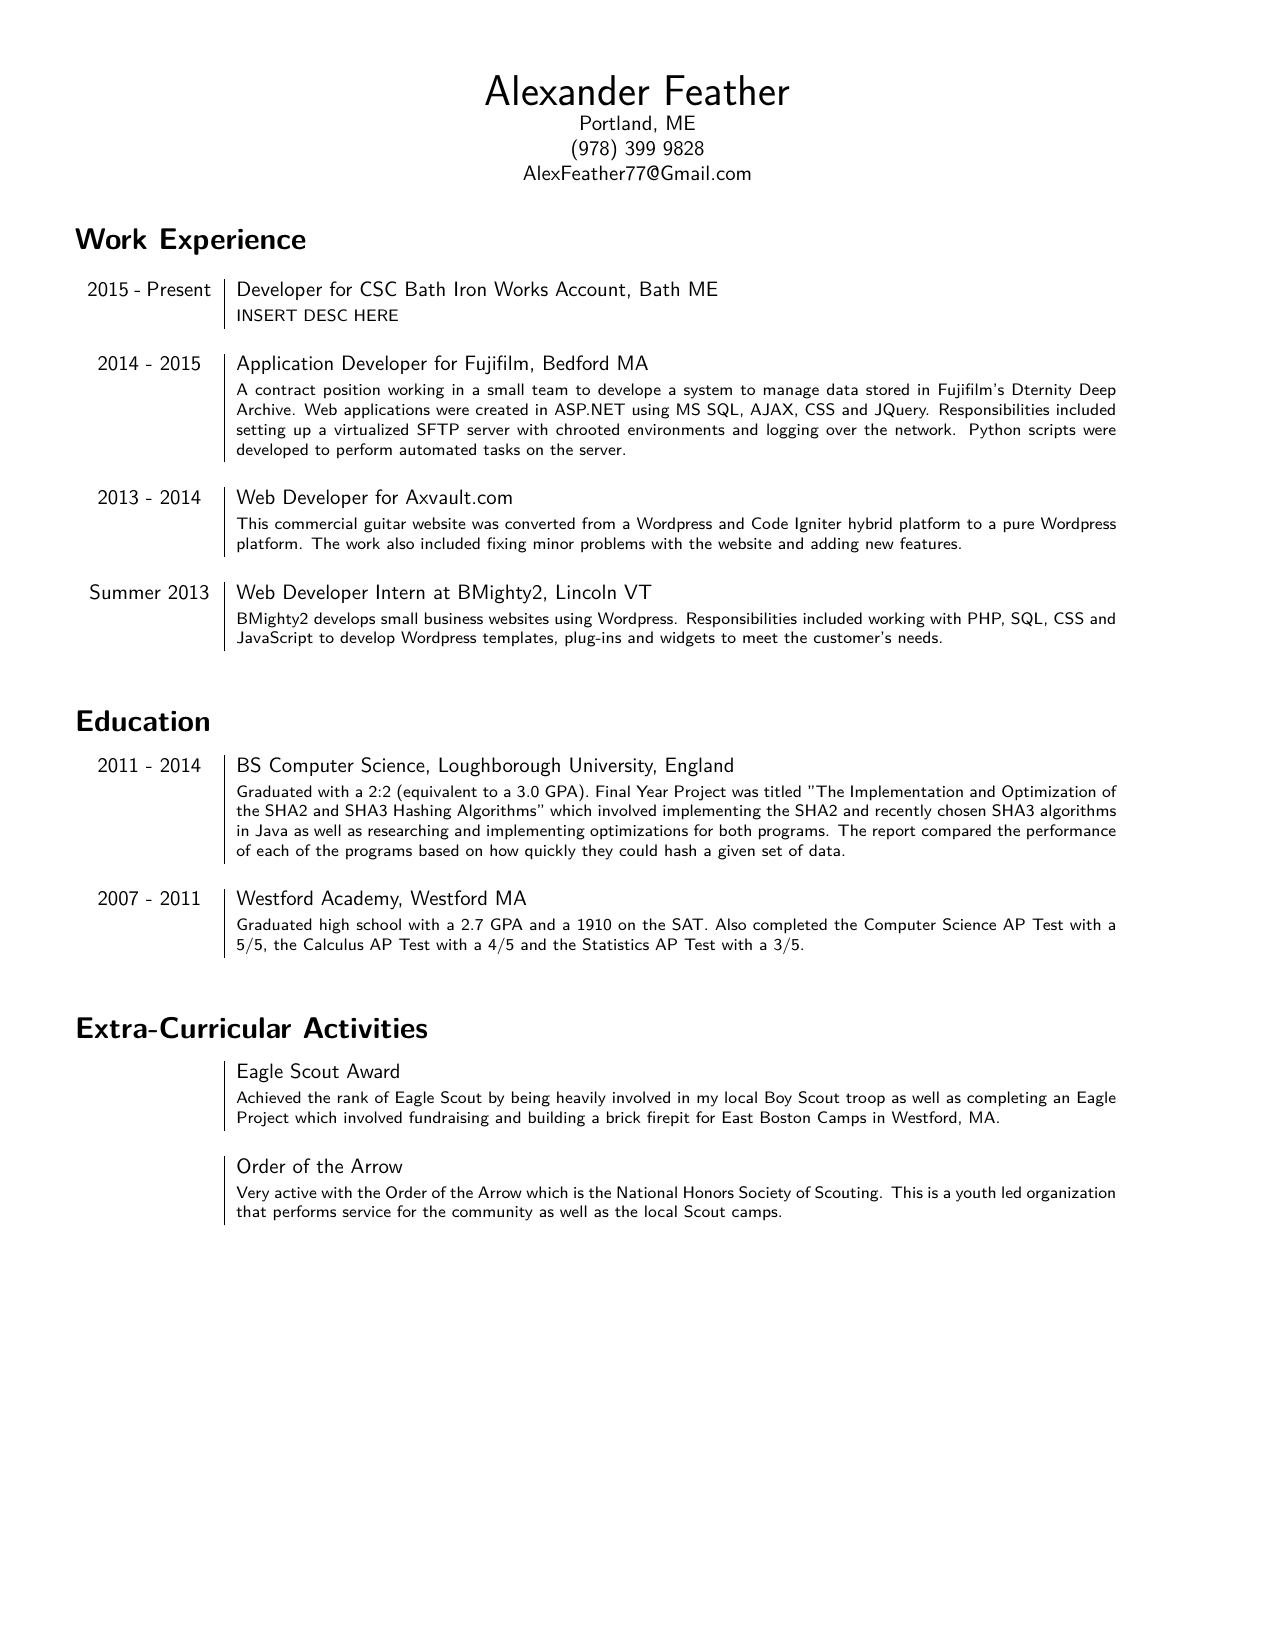
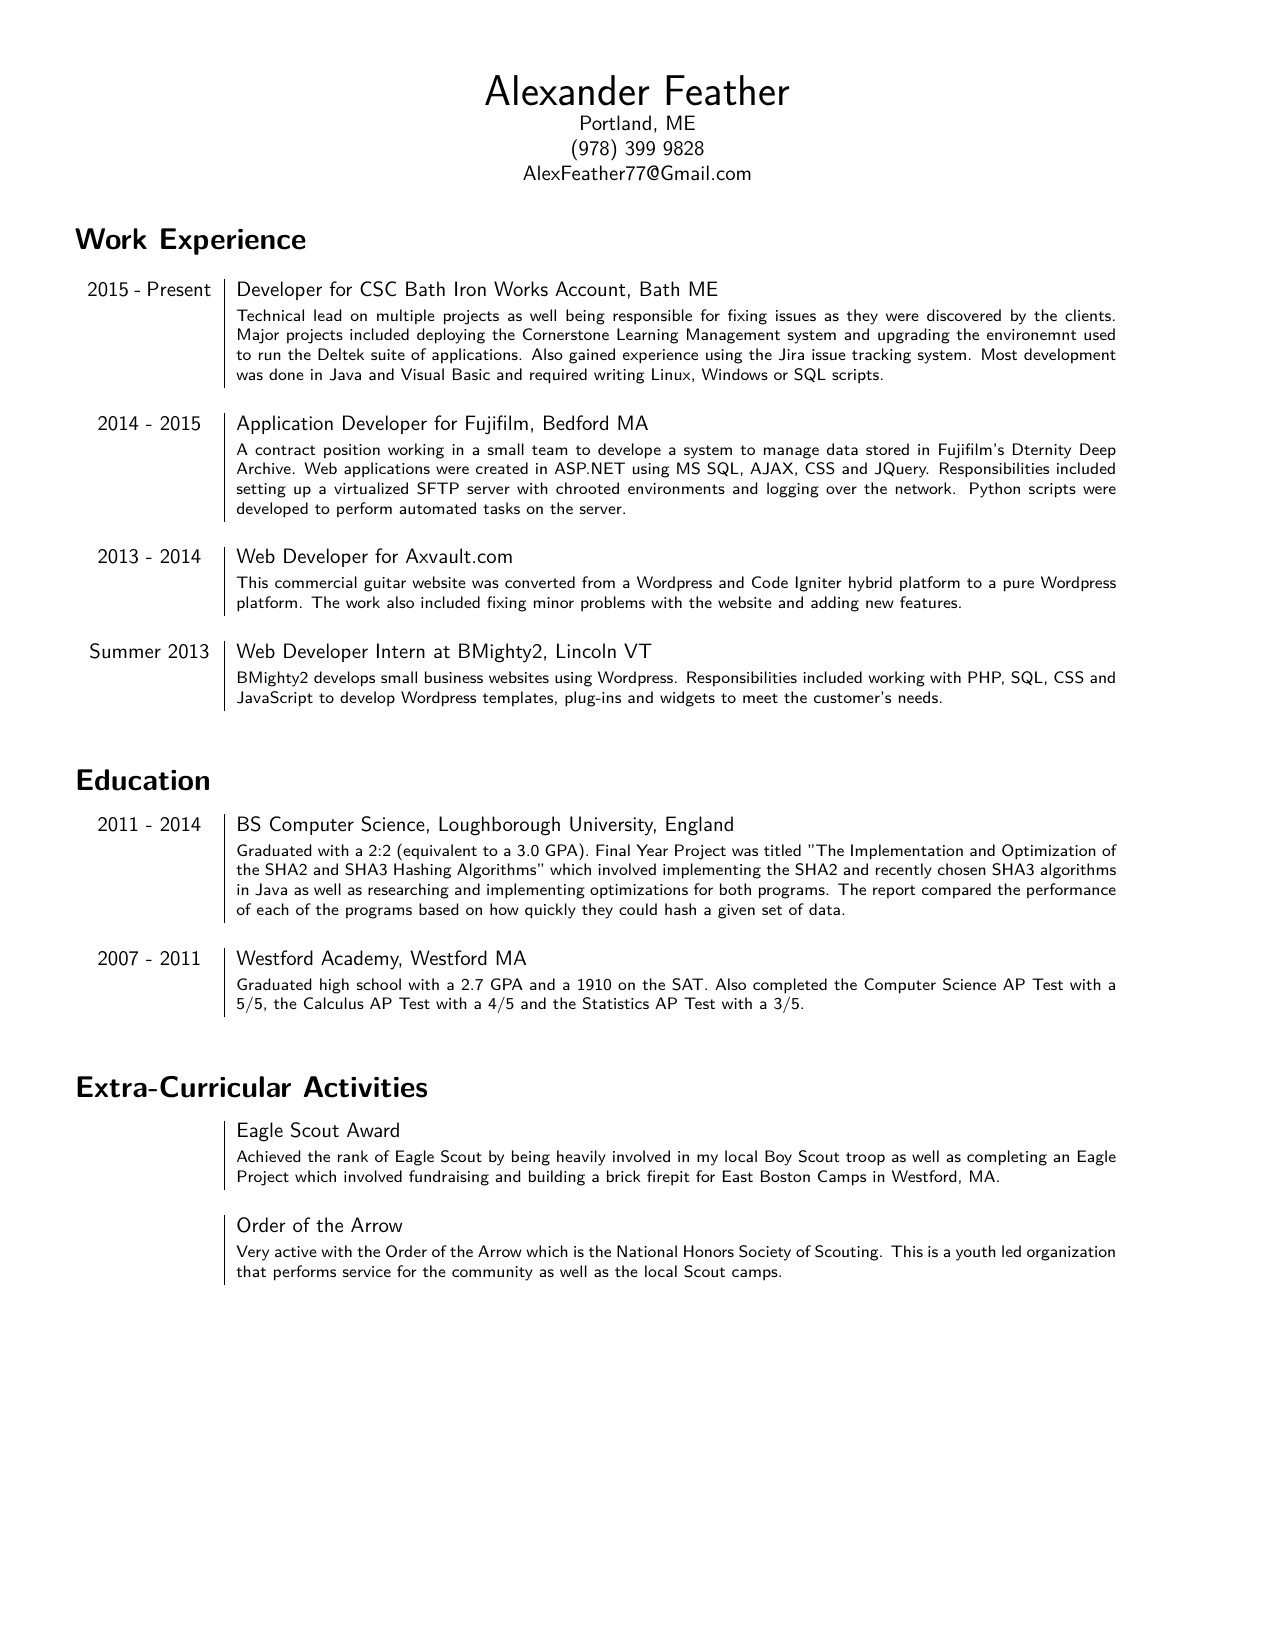
Updated Resume Files

diff --git a/Resume.tex b/Resume.tex
@@ -12,7 +12,7 @@ Portland, ME\\(978) 399 9828\\AlexFeather77@Gmail.com\\}
 
 \section*{\fontfamily{lmss}\selectfont Work Experience}
 \begin{tabular}{p{2.1cm}|p{14.9cm}}
-	2015 - Present & Developer for CSC Bath Iron Works Account, Bath ME\\&\footnotesize{INSERT DESC HERE}\\\multicolumn{2}{c}{} \\
+	2015 - Present & Developer for CSC Bath Iron Works Account, Bath ME\\&\footnotesize{Technical lead on multiple projects as well being responsible for fixing issues as they were discovered by the clients. Major projects included deploying the Cornerstone Learning Management system and upgrading the environemnt used to run the Deltek suite of applications. Also gained experience using the Jira issue tracking system. Most development was done in Java and Visual Basic and required writing Linux, Windows or SQL scripts.}\\\multicolumn{2}{c}{} \\
 	\centering 2014 - 2015 & Application Developer for Fujifilm, Bedford MA\\&\footnotesize{A contract position working in a small team to develope a system to manage data stored in Fujifilm's Dternity Deep Archive. Web applications were created in ASP.NET using MS SQL, AJAX, CSS and JQuery. Responsibilities included setting up a virtualized SFTP server with chrooted environments and logging over the network. Python scripts were developed to perform automated tasks on the server.}\\\multicolumn{2}{c}{} \\
 	\centering 2013 - 2014 & Web Developer for Axvault.com\\&\footnotesize{This commercial guitar website was converted from a Wordpress and Code Igniter hybrid platform to a pure Wordpress platform. The work also included fixing minor problems with the website and adding new features.}\\\multicolumn{2}{c}{} \\
 	\centering Summer 2013 & Web Developer Intern at BMighty2, Lincoln VT\\&\footnotesize{BMighty2 develops small business websites using Wordpress. Responsibilities included working with PHP, SQL, CSS and JavaScript to develop Wordpress templates, plug-ins and widgets to meet the customer's needs.}\\\multicolumn{2}{c}{} \\
